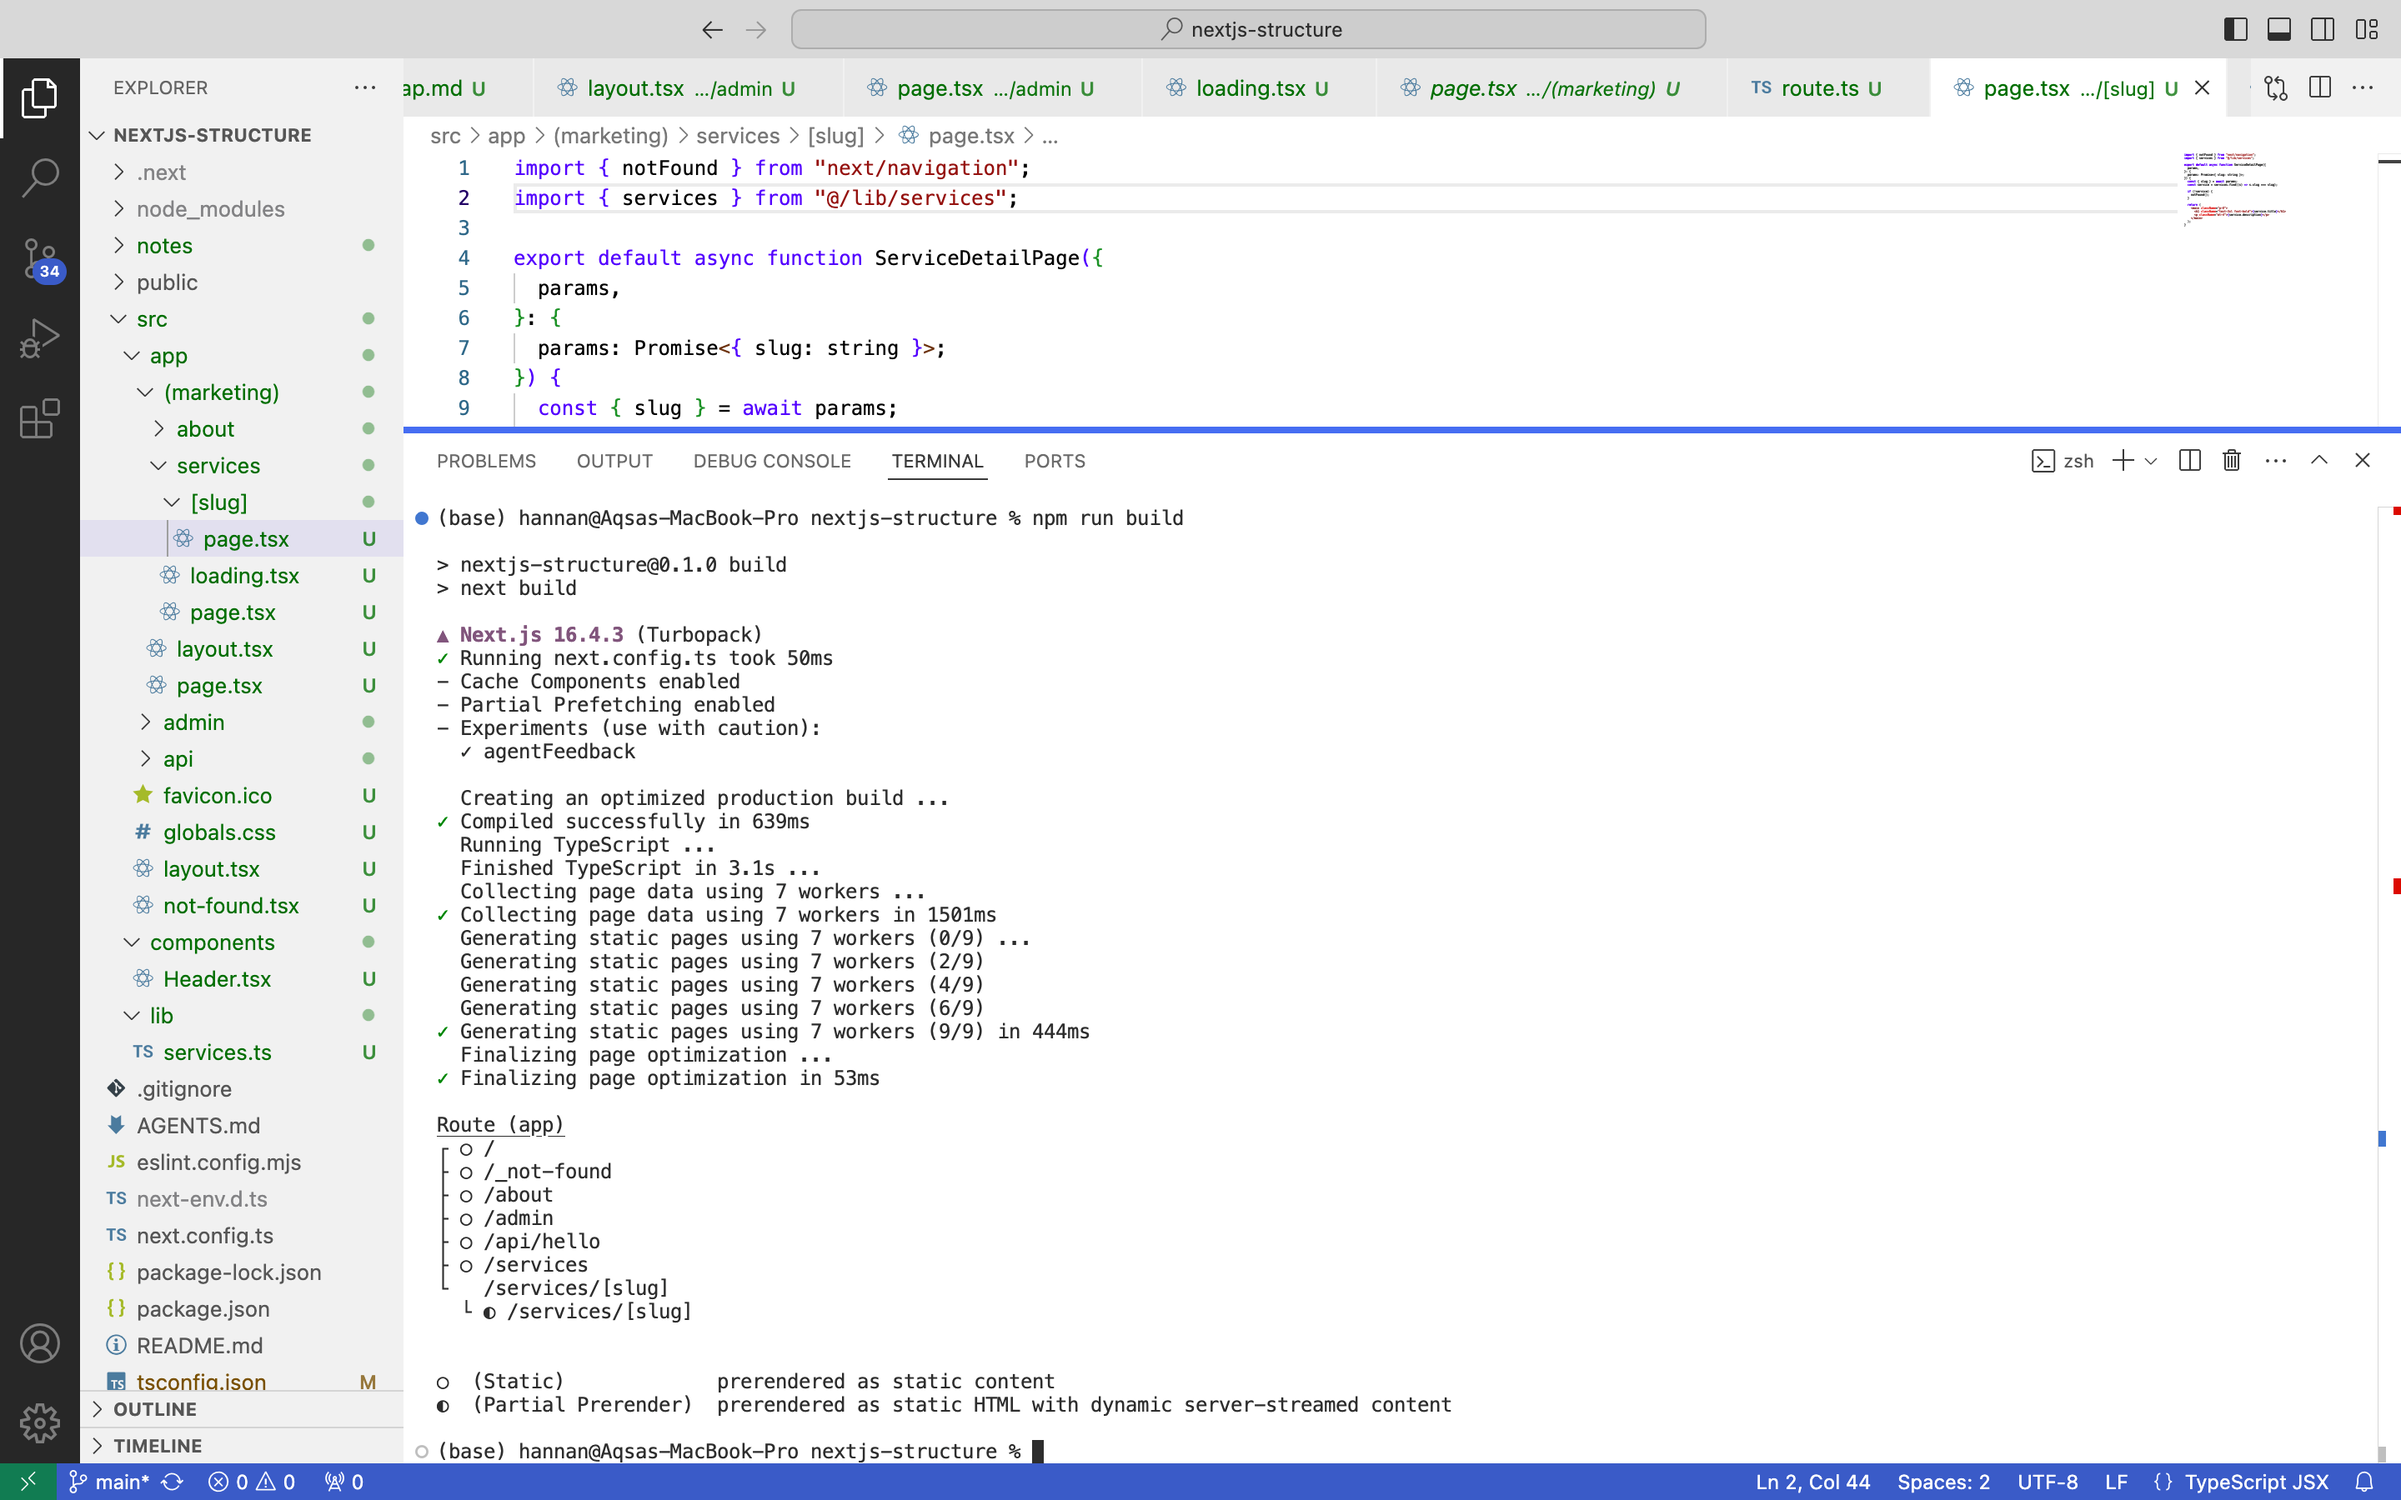
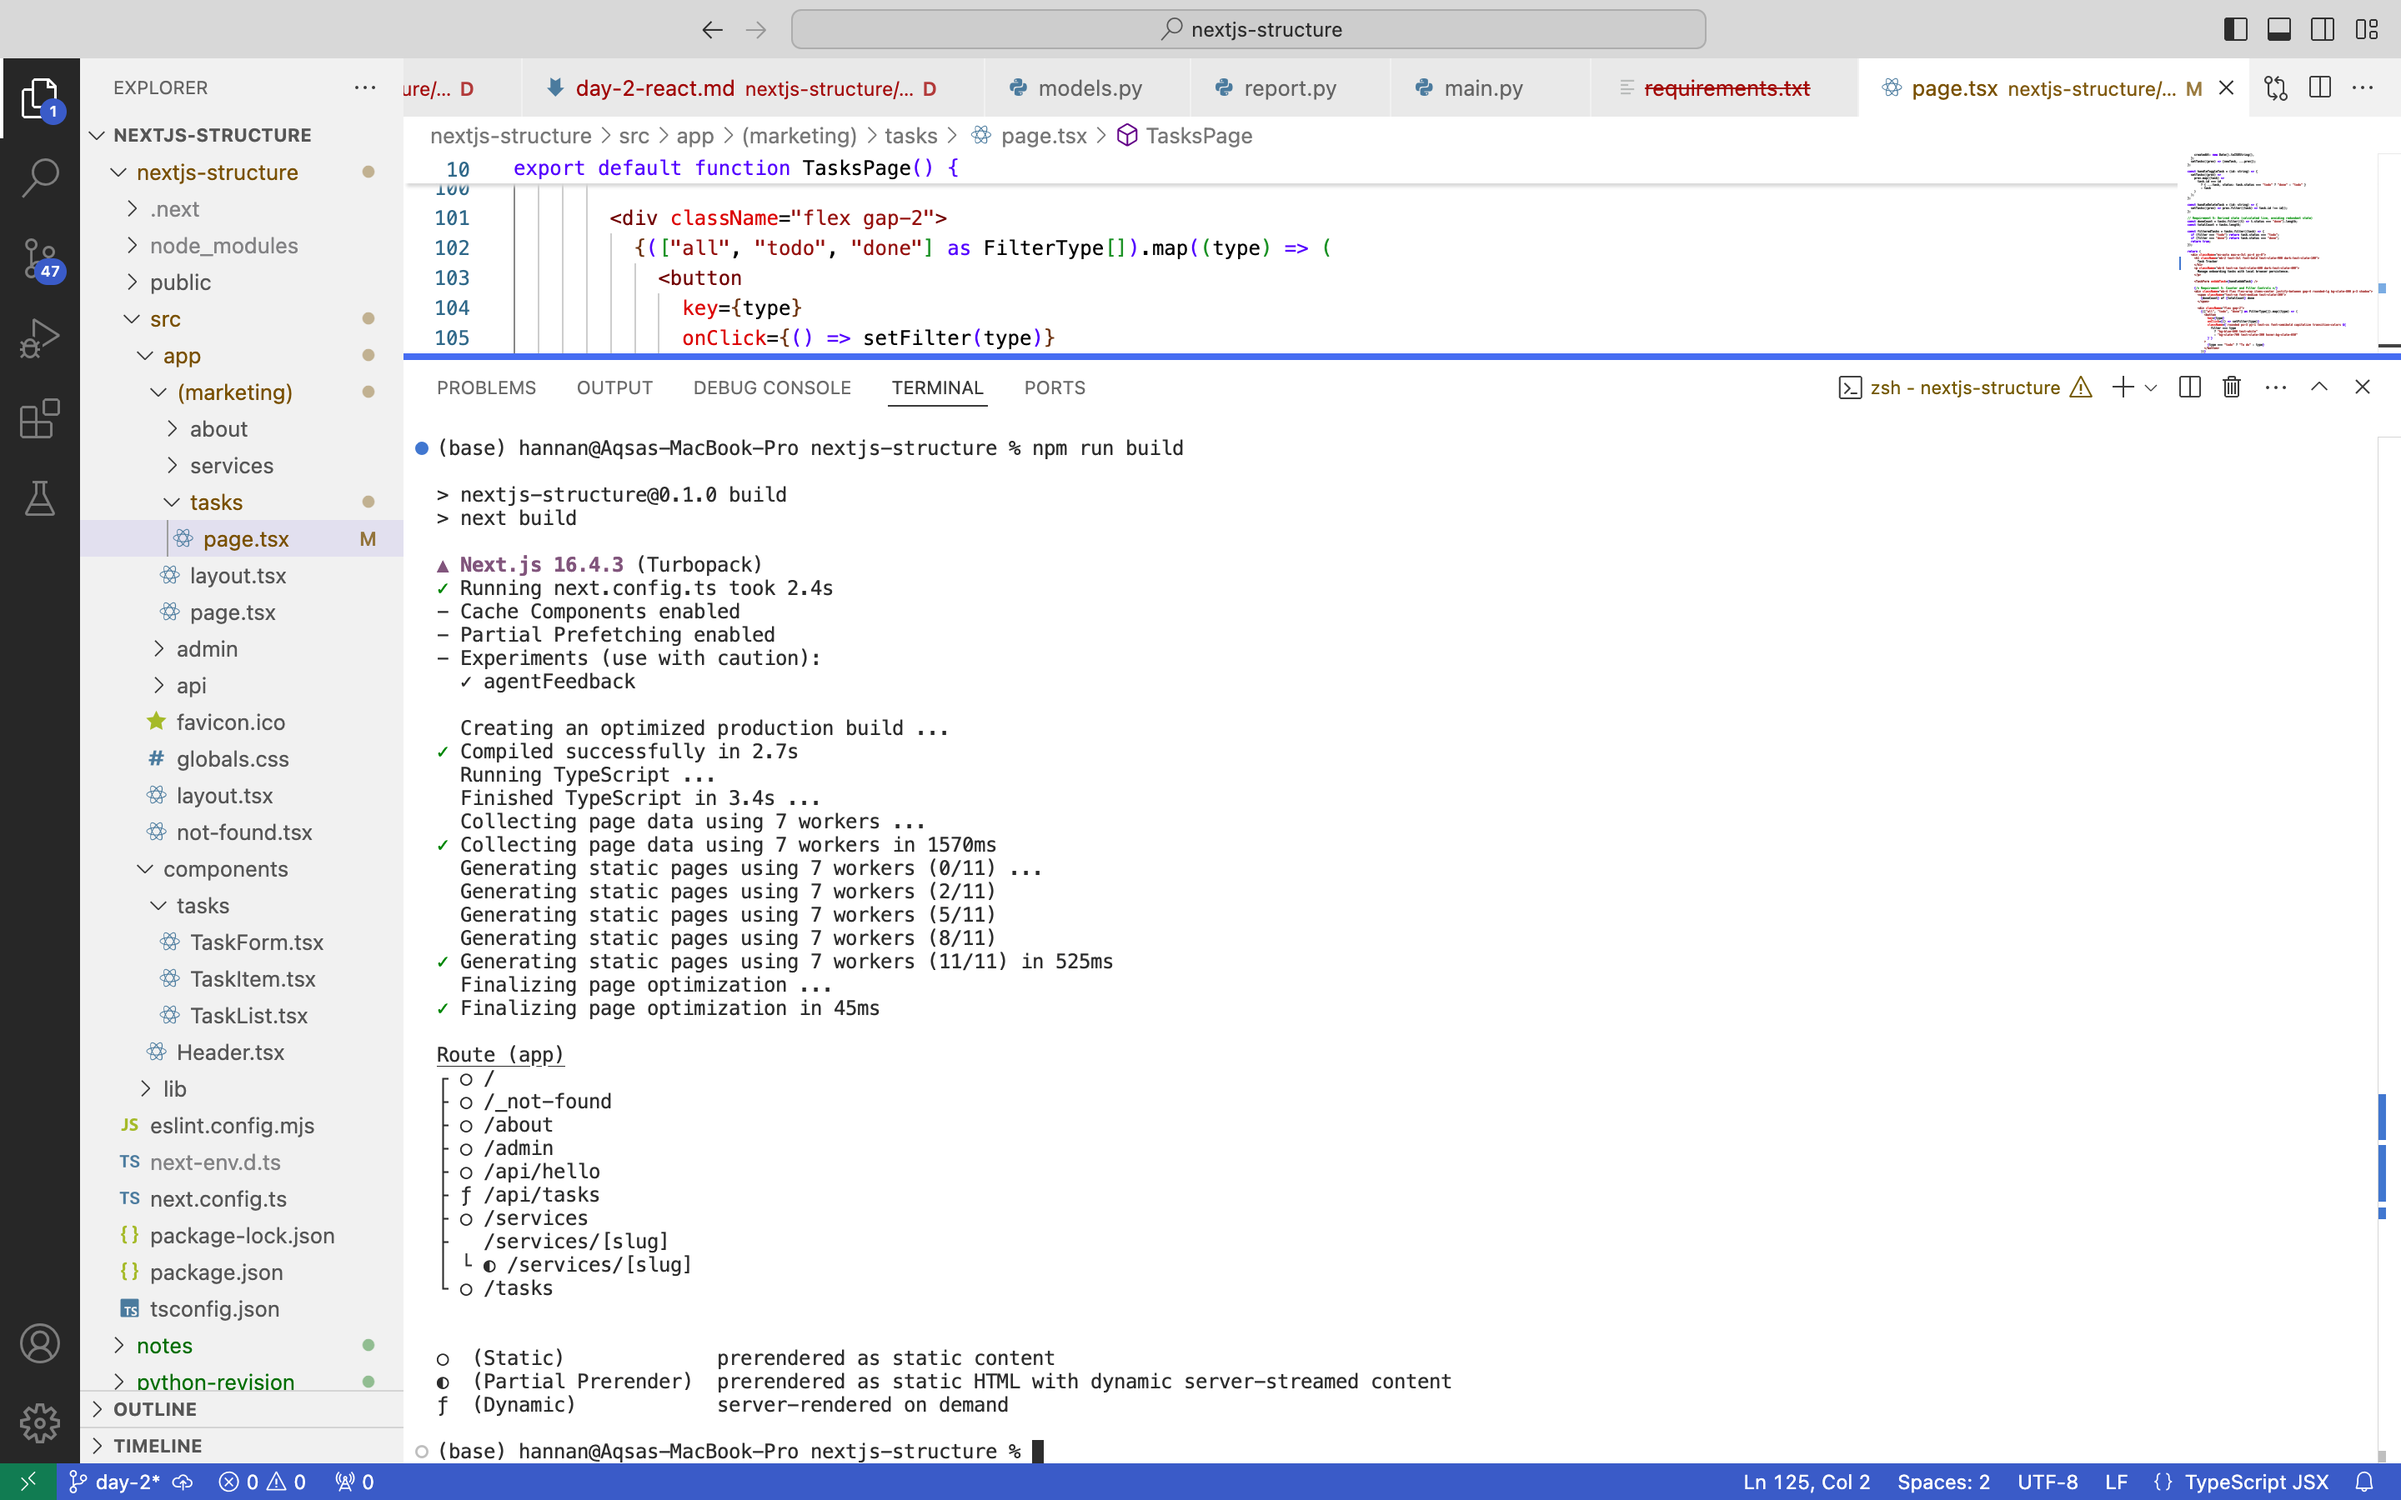
update route-list.md and build screenshot to include /tasks and /api/tasks

diff --git a/notes/route-list.md b/notes/route-list.md
@@ -1,20 +1,17 @@
 When we run `npm run build`, Next.js checks every page and splits them into two types:
 
+- **Static Routes (`○`)** — These pages never change, so they are built once into fast HTML files ahead of time:
+  - `/` (Home page)
+  - `/_not-found` (Error page)
+  - `/about` (About page)
+  - `/admin` (Admin page)
+  - `/api/hello` (API route)
+  - `/services` (Services list page)
+  - `/tasks` (Task tracker page)
 
-
-**Static Routes (`○`)** — These pages never change, so they are built once into fast HTML files ahead of time:
-`/` (Home page)
-`/_not-found` (Error page)
-`/about` (About page)
-`/admin` (Admin page)
-`/api/hello` (API route)
-`/services` (Services list page)
-
-
-**Dynamic Routes (`◐`)** — This page uses brackets (`[slug]`), meaning it creates different service pages on-the-fly depending on what URL the user visits:
-`/services/[slug]` (Individual service detail pages)
-
+- **Dynamic Server / Partial Prerender Routes (`ƒ` / `◐`)** — Pages or API routes that render dynamically on request or handle route parameters:
+  - `/api/tasks` (Dynamic backend API route for tasks)
+  - `/services/[slug]` (Individual service detail pages)
 
 ---
-
 *Reference screenshot saved in `notes/route-list.png` directory.*
